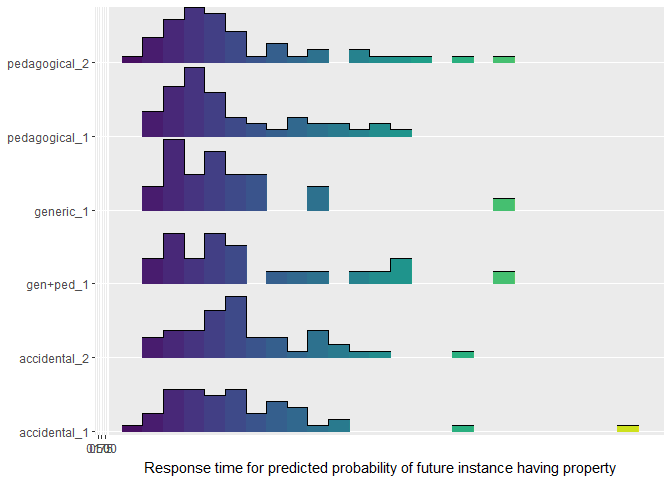
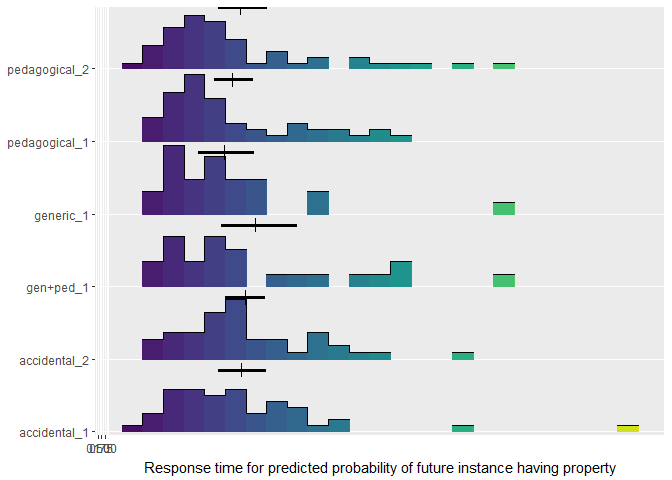
fix gradient density ridge error bars, add CogSci-esque bar graphs

diff --git a/analysis/prolific/pilot-4/data-analysis.md b/analysis/prolific/pilot-4/data-analysis.md
@@ -232,7 +232,7 @@ streamlined_data <- plyr::rbind.fill(p3_streamlined_data, p4_streamlined_data) %
   mutate( predicted_probability_response = as.numeric(as.character(predicted_probability_response))) %>% # convert string numbers to numbers
   mutate( name_identification_is_correct = as.logical(name_identification_is_correct) ) %>% # convert "True" to TRUE and "False" to FALSE
   mutate( character_arrival_is_correct = as.logical(character_arrival_is_correct) ) %>% # convert "True" to TRUE and "False" to FALSE
-  mutate( exp_cond = paste(item_presentation_condition, n_examples, sep="_") )
+  mutate( exp_cond = factor(paste(item_presentation_condition, n_examples, sep = "_") ) )
 
 # append some streamlined data to demographic info to determine which to exclude
 participant_demographics <- bind_rows(p3_participant_demographics, p4_participant_demographics) %>%
@@ -297,7 +297,7 @@ response
 predicted_probability_CIs <- filtered_data %>%
   dplyr::group_by(item_presentation_condition, n_examples) %>%
   tidyboot_mean(column = predicted_probability_response) %>%
-  mutate( exp_cond = paste(item_presentation_condition, n_examples, sep="_") )
+  mutate( exp_cond = factor( paste( item_presentation_condition, n_examples, sep="_" ) ) )
 ```
 
     ## Warning: Problem with `mutate()` input `strap`.
@@ -325,19 +325,30 @@ predicted_probability_CIs # prints output; line may be omitted
     ## # Groups:   item_presentation_condition [4]
     ##   item_presentati~ n_examples     n empirical_stat ci_lower  mean ci_upper
     ##   <chr>                 <int> <int>          <dbl>    <dbl> <dbl>    <dbl>
-    ## 1 accidental                1    48          0.719    0.669 0.720    0.772
-    ## 2 accidental                2    43          0.776    0.737 0.776    0.814
-    ## 3 gen+ped                   1    23          0.857    0.781 0.854    0.918
-    ## 4 generic                   1    25          0.950    0.907 0.949    0.979
-    ## 5 pedagogical               1    47          0.758    0.706 0.758    0.807
-    ## 6 pedagogical               2    48          0.831    0.780 0.830    0.873
-    ## # ... with 1 more variable: exp_cond <chr>
+    ## 1 accidental                1    48          0.719    0.671 0.719    0.767
+    ## 2 accidental                2    43          0.776    0.735 0.776    0.813
+    ## 3 gen+ped                   1    23          0.857    0.792 0.856    0.914
+    ## 4 generic                   1    25          0.950    0.909 0.949    0.980
+    ## 5 pedagogical               1    47          0.758    0.708 0.757    0.807
+    ## 6 pedagogical               2    48          0.831    0.781 0.831    0.879
+    ## # ... with 1 more variable: exp_cond <fct>
+
+``` r
+predicted_probability_CIs.preprocessed_item <- bayes_preprocessed %>%
+  dplyr::group_by(condition, kind_type, feature_label) %>%
+  tidyboot_mean(column = response) %>%
+  mutate(condition = factor(condition),
+         kind_type = factor(kind_type, levels = c("bird", "flower", "artifact")))
+```
+
+    ## Warning: `cols` is now required when using unnest().
+    ## Please use `cols = c(strap)`
 
 ``` r
 predicted_probability_duration_CIs <- filtered_data %>%
   group_by(item_presentation_condition, n_examples) %>%
   tidyboot_mean(column = predicted_probability_duration) %>%
-  mutate( exp_cond = paste(item_presentation_condition, n_examples, sep="_") )
+  mutate( exp_cond = factor( paste ( item_presentation_condition, n_examples, sep="_" ) ) )
 ```
 
     ## Warning: `cols` is now required when using unnest().
@@ -351,20 +362,20 @@ predicted_probability_duration_CIs # prints output; line may be omitted
     ## # Groups:   item_presentation_condition [4]
     ##   item_presentati~ n_examples     n empirical_stat ci_lower  mean ci_upper
     ##   <chr>                 <int> <int>          <dbl>    <dbl> <dbl>    <dbl>
-    ## 1 accidental                1    48          10.5      8.98 10.5      12.3
-    ## 2 accidental                2    43          10.8      9.46 10.7      12.1
-    ## 3 gen+ped                   1    23          11.5      9.03 11.6      14.2
-    ## 4 generic                   1    25           9.31     7.68  9.33     11.6
-    ## 5 pedagogical               1    47           9.85     8.59  9.86     11.3
-    ## 6 pedagogical               2    48          10.5      8.96 10.4      12.2
-    ## # ... with 1 more variable: exp_cond <chr>
+    ## 1 accidental                1    48          10.5      8.93 10.5      12.3
+    ## 2 accidental                2    43          10.8      9.39 10.8      12.2
+    ## 3 gen+ped                   1    23          11.5      9.13 11.5      14.5
+    ## 4 generic                   1    25           9.31     7.53  9.31     11.4
+    ## 5 pedagogical               1    47           9.85     8.60  9.89     11.4
+    ## 6 pedagogical               2    48          10.5      8.89 10.5      12.3
+    ## # ... with 1 more variable: exp_cond <fct>
 
 ``` r
 generic_endorsement_CIs <- filtered_data %>%
   group_by(item_presentation_condition, n_examples) %>%
   mutate(generic_endorsement = ifelse(generic_endorsement_response == "yes",1,0)) %>%
   tidyboot_mean(column = generic_endorsement) %>%
-  mutate( exp_cond = paste(item_presentation_condition, n_examples, sep="_") )
+  mutate( exp_cond = factor( paste ( item_presentation_condition, n_examples, sep="_" ) ) )
 ```
 
     ## Warning: `cols` is now required when using unnest().
@@ -378,13 +389,13 @@ generic_endorsement_CIs # prints output; line may be omitted
     ## # Groups:   item_presentation_condition [4]
     ##   item_presentati~ n_examples     n empirical_stat ci_lower  mean ci_upper
     ##   <chr>                 <int> <int>          <dbl>    <dbl> <dbl>    <dbl>
-    ## 1 accidental                1    48          0.917    0.822 0.916    0.980
-    ## 2 accidental                2    43          0.953    0.881 0.954    1    
+    ## 1 accidental                1    48          0.917    0.827 0.914    0.980
+    ## 2 accidental                2    43          0.953    0.886 0.955    1    
     ## 3 gen+ped                   1    23          1        1     1        1    
     ## 4 generic                   1    25          1        1     1        1    
     ## 5 pedagogical               1    47          1        1     1        1    
-    ## 6 pedagogical               2    48          0.979    0.932 0.980    1    
-    ## # ... with 1 more variable: exp_cond <chr>
+    ## 6 pedagogical               2    48          0.979    0.930 0.979    1    
+    ## # ... with 1 more variable: exp_cond <fct>
 
 # Visualization
 
@@ -429,10 +440,11 @@ ggplot(
   ) +
   scale_x_continuous(
     expand = c(0.01, 0),
-    limits = c(0, 1.02),
+    limits = c(0, 1.05),
     breaks = c(0, 0.25, 0.5, 0.75, 1)
   ) +
-  scale_y_discrete(expand = c(0.01, 0)) +
+  scale_y_discrete( expand = expand_scale( mult = c(0.01, 0),
+                                           add = c(0.01, 1) ) ) +
   viridis::scale_fill_viridis(
     breaks = c(0, 1)
   ) +
@@ -444,13 +456,7 @@ ggplot(
   labs(x = "Predicted Probability of Future Instance having Property")
 ```
 
-    ## Warning in FUN(X[[i]], ...): NAs introduced by coercion
-    
-    ## Warning in FUN(X[[i]], ...): NAs introduced by coercion
-
-    ## Warning: Removed 6 rows containing missing values (geom_linerangeh).
-
-    ## Warning: Removed 6 rows containing missing values (geom_point).
+    ## Warning: `expand_scale()` is deprecated; use `expansion()` instead.
 
 ![](data-analysis_files/figure-gfm/gradient%20density%20-%20predicted%20probability%20vs.%20condition-1.png)<!-- -->
 
@@ -507,15 +513,34 @@ ggplot(
   labs(x = "Response time for predicted probability of future instance having property")
 ```
 
-    ## Warning in FUN(X[[i]], ...): NAs introduced by coercion
-    
-    ## Warning in FUN(X[[i]], ...): NAs introduced by coercion
-
-    ## Warning: Removed 6 rows containing missing values (geom_linerangeh).
-
-    ## Warning: Removed 6 rows containing missing values (geom_point).
-
 ![](data-analysis_files/figure-gfm/gradient%20density%20-%20predicted%20probability%20time%20vs.%20condition-1.png)<!-- -->
+
+Combined bar plot with error bars for all conditions and item
+combinations
+
+``` r
+bar.width = 0.7
+predicted_probability_CIs.preprocessed_item %>%
+  ggplot(., aes(x = condition, fill = kind_type, 
+                y = mean, ymin = ci_lower,
+                ymax = ci_upper)) +
+  geom_hline(data = predicted_probability_CIs %>% filter(item_presentation_condition == "generic"),
+             linetype = 2, alpha = 0.4,
+             aes(yintercept = ci_lower))+
+  geom_hline(data = predicted_probability_CIs %>% filter(item_presentation_condition == "generic"),
+             linetype = 2, alpha = 0.4,
+             aes(yintercept = ci_upper))+
+  geom_col(color = 'black', width = bar.width, position = position_dodge(bar.width),
+           alpha = 0.5)+
+  geom_linerange( position = position_dodge(bar.width))+
+  coord_flip()+
+   guides(fill = guide_legend(reverse = T))+
+  labs(y = "Probability of Future Instance having Property", x = "",
+       fill = "item")+
+  theme(legend.position = 'bottom')
+```
+
+![](data-analysis_files/figure-gfm/bar%20plot%20-%20all%20grouped%20by%20condition%20and%20colored%20by%20object-1.png)<!-- -->
 
 Facet grid of predicted probability plotted on number of examples
 vs. item presentation condition
